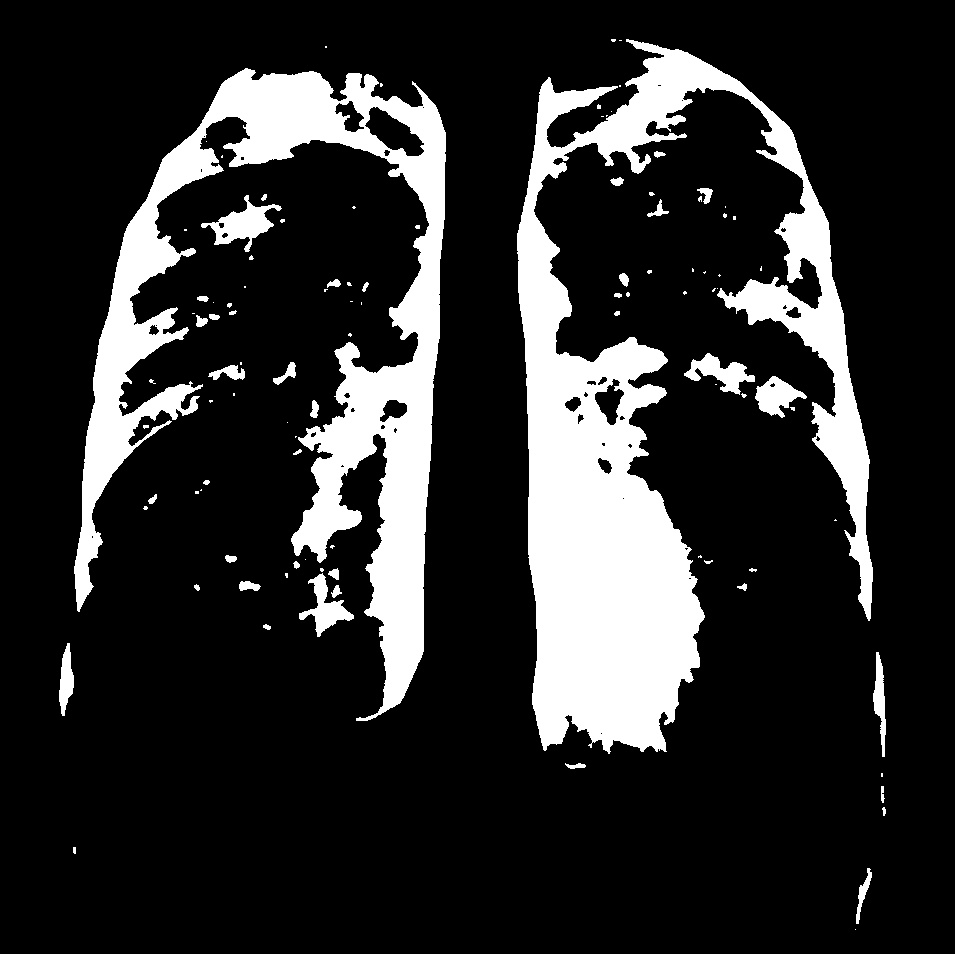
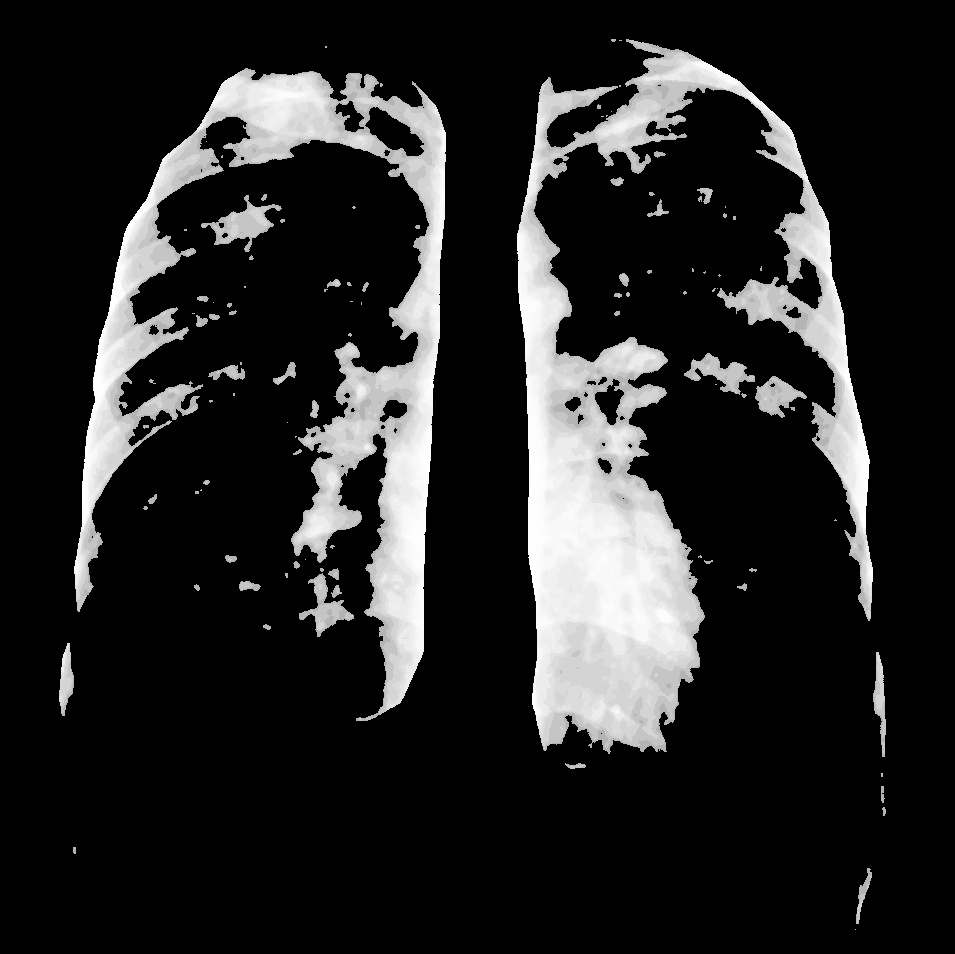
commit project

diff --git a/meningkatkan-kualitas-citra-ctscan.py b/meningkatkan-kualitas-citra-ctscan.py
@@ -34,13 +34,15 @@ plt.show()
 ret,img_th = cv.threshold(img_contras,175,255,cv.THRESH_BINARY)
 
 # menampilkan citra hasil
-cv.imshow('final', img_th)
+final = cv.bitwise_and(img_contras,img_contras,mask=img_th)
+cv.imshow('Final', final)
 
 # menyimpan citra
 cv.imwrite('res_bitwise.jpg',img_bitwise)
 cv.imwrite('res_noise_removal.jpg',img_noiseRemov)
 cv.imwrite('res_contras.jpg',img_contras)
-cv.imwrite('final.jpg',img_th)
+cv.imwrite('threshold.jpg',img_th)
+cv.imwrite('final.jpg',final)
 
 cv.waitKey(0)
 cv.destroyAllWindows()
